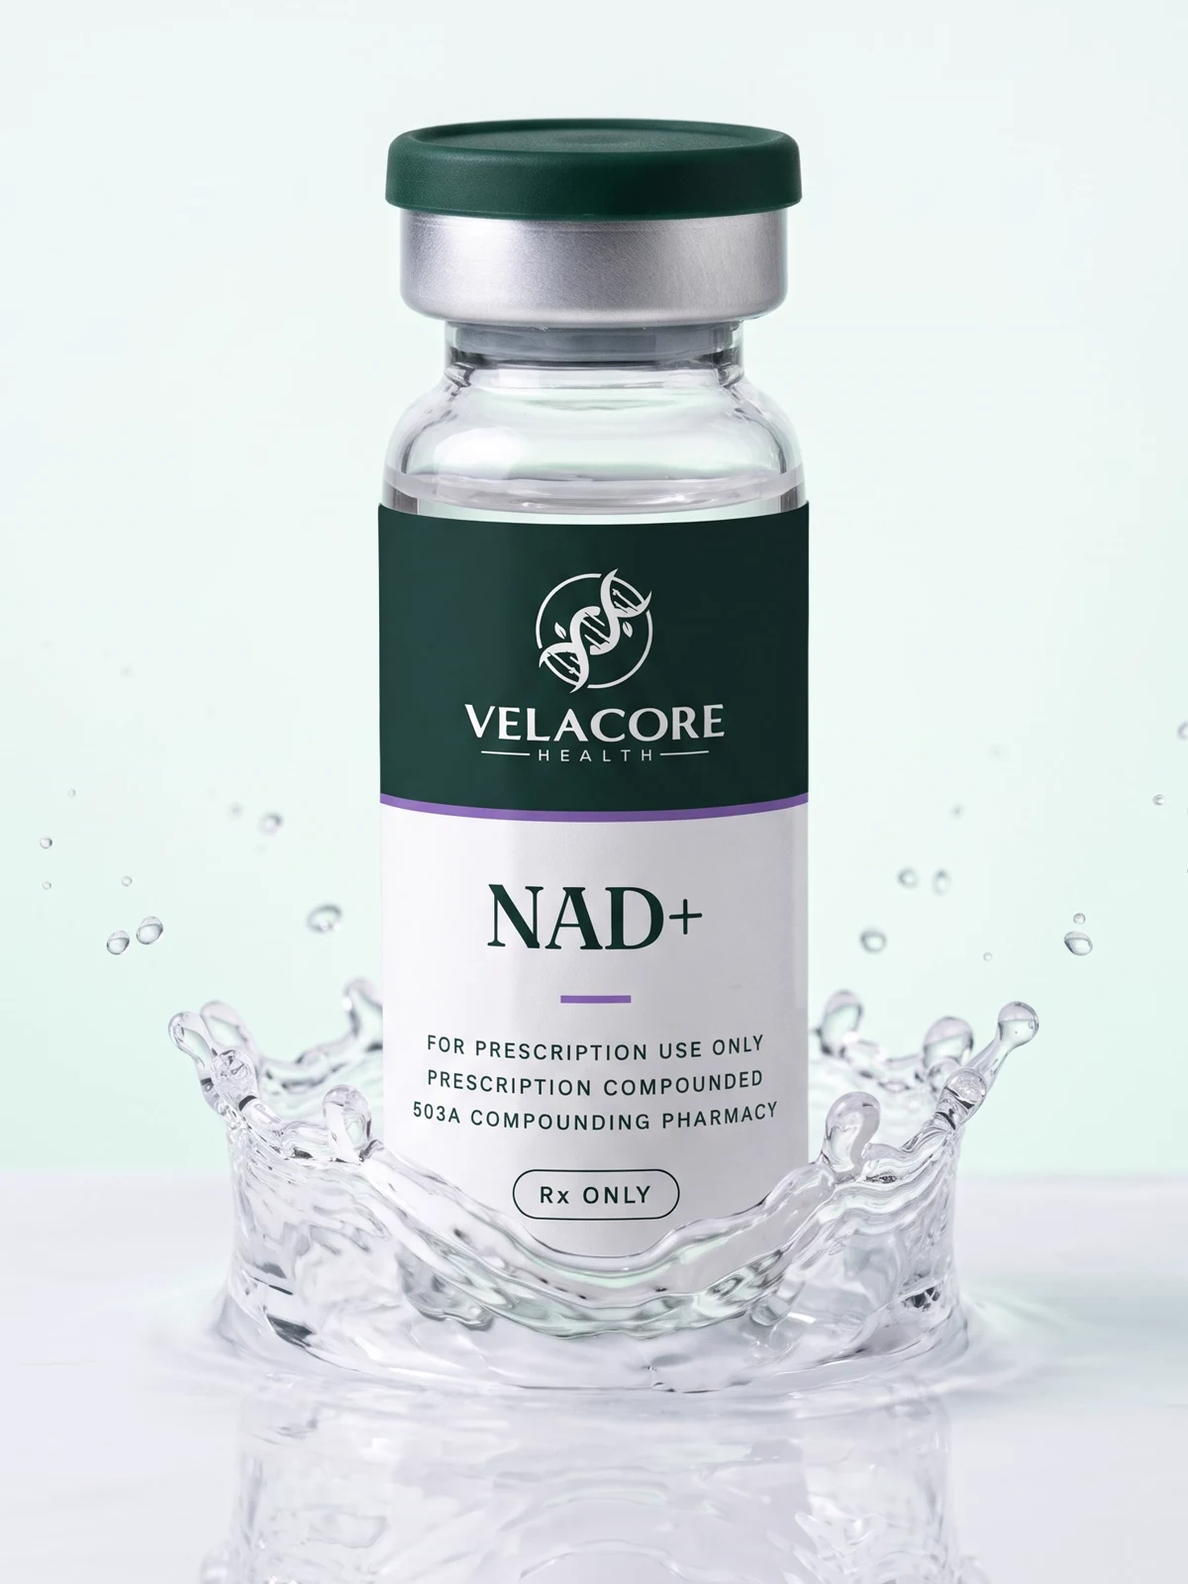
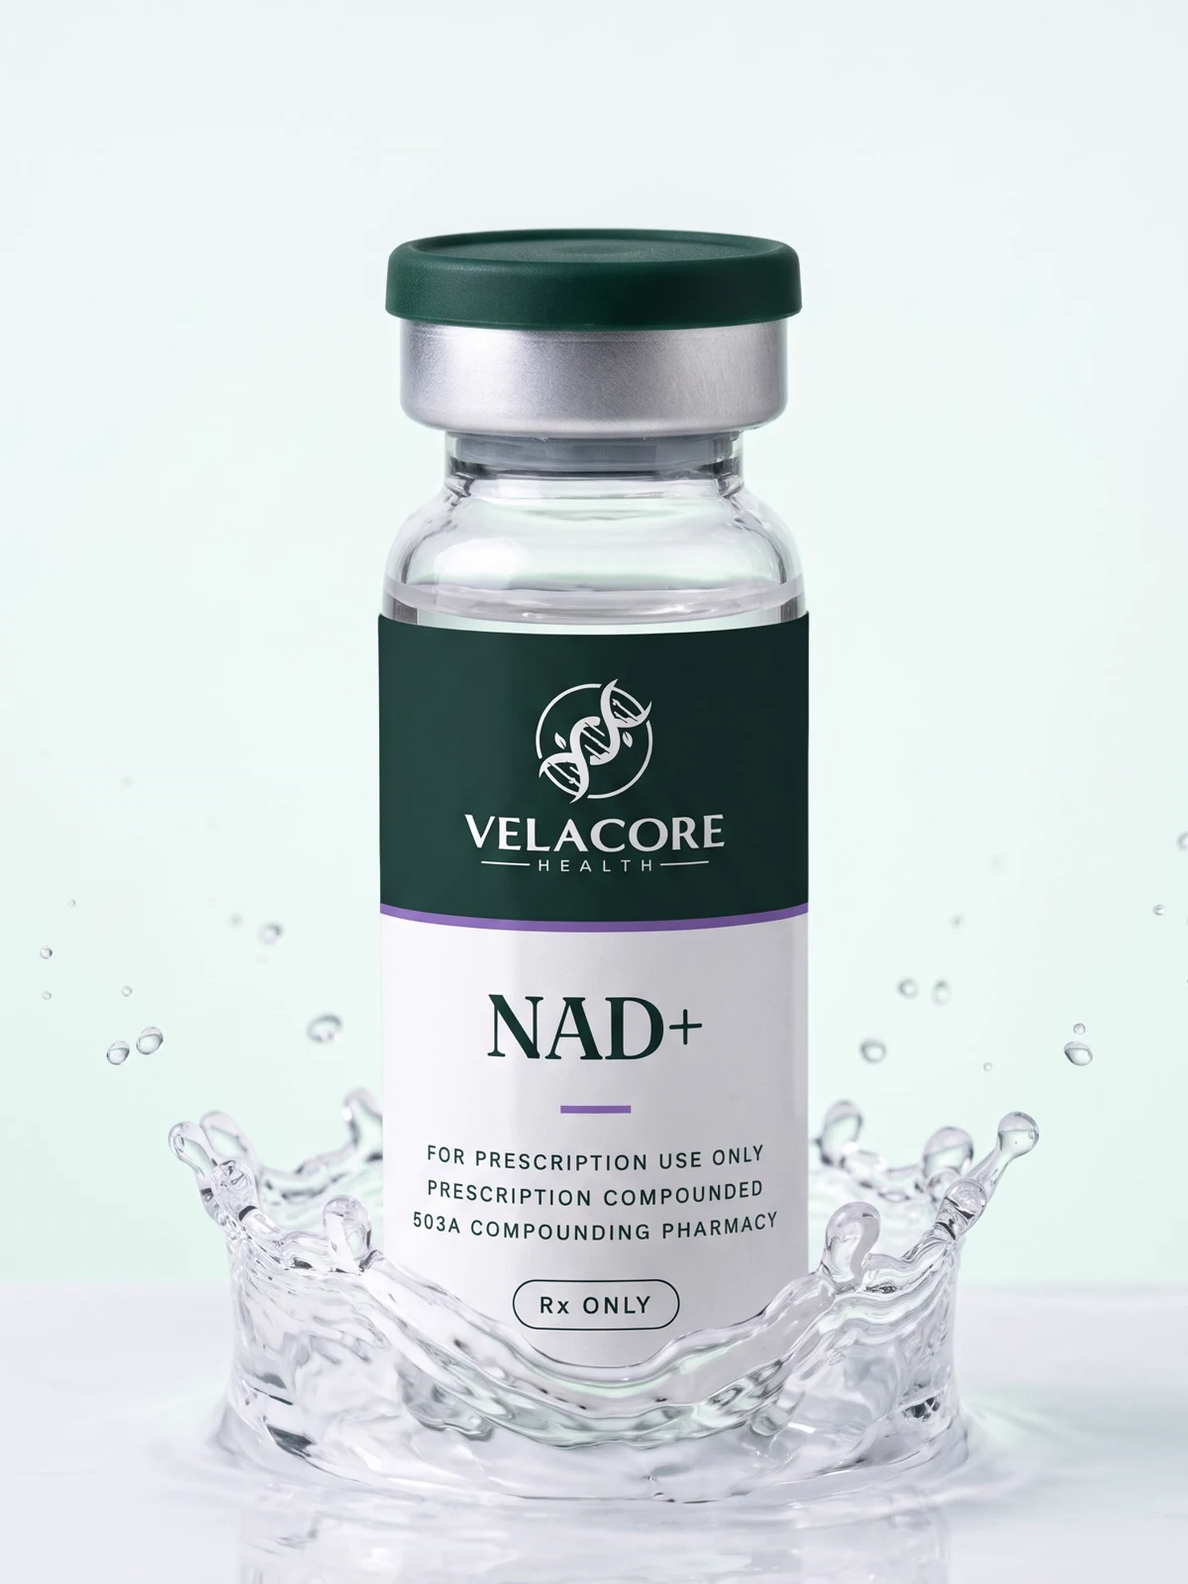
Microdosing splash vial on the site and home card; NAD+ re-cropped; product cards 4 by 5, full-bleed

diff --git a/public/programs/microdosing.html b/public/programs/microdosing.html
@@ -36,7 +36,7 @@
         <img class="brand-mark" src="../logo-mark.png" alt="Velacore Health" /><span class="brand-name">Velacore <span class="brand-accent">Health</span></span>
       </a>
       <nav class="nav-links" id="navLinks" aria-label="Primary">
-        <div class="nav-item has-mega"><a href="../index.html#treatments" aria-haspopup="true" aria-expanded="false">Treatments</a><div class="mega" role="menu"><div class="mega-col"><h4>Weight</h4><a class="mega-item" href="../programs/tirzepatide.html"><img src="../images/products/tirzepatide.webp" alt="" width="54" height="54" loading="lazy" /><span><b>Tirzepatide</b><small>Dual GIP / GLP-1 injection</small></span></a><a class="mega-item" href="../programs/semaglutide.html"><img src="../images/products/semaglutide.webp" alt="" width="54" height="54" loading="lazy" /><span><b>Semaglutide</b><small>GLP-1 injection</small></span></a><a class="mega-item" href="../programs/microdosing.html"><img class="mega-tile" src="../logo-mark.png" alt="" width="119" height="128" loading="lazy" /><span><b>Microdosing GLP‑1</b><small>Low dose, oral or injection</small></span></a></div><div class="mega-col"><h4>Vitality</h4><a class="mega-item" href="../programs/nad.html"><img src="../images/products/nad.webp" alt="" width="54" height="54" loading="lazy" /><span><b>NAD+</b><small>Injection, nasal or oral</small></span></a></div><div class="mega-col"><h4>Hormone support</h4><a class="mega-item" href="../programs/sermorelin.html"><img src="../images/products/sermorelin.webp" alt="" width="54" height="54" loading="lazy" /><span><b>Sermorelin</b><small>GHRH analog injection</small></span></a></div><div class="mega-col mega-cta"><h4>Not sure?</h4><p>Start the online visit and a licensed clinician will help determine what is appropriate.</p><a class="btn btn-primary btn-sm" href="../index.html#intake">Start online visit</a></div></div></div>
+        <div class="nav-item has-mega"><a href="../index.html#treatments" aria-haspopup="true" aria-expanded="false">Treatments</a><div class="mega" role="menu"><div class="mega-col"><h4>Weight</h4><a class="mega-item" href="../programs/tirzepatide.html"><img src="../images/products/tirzepatide.webp" alt="" width="54" height="54" loading="lazy" /><span><b>Tirzepatide</b><small>Dual GIP / GLP-1 injection</small></span></a><a class="mega-item" href="../programs/semaglutide.html"><img src="../images/products/semaglutide.webp" alt="" width="54" height="54" loading="lazy" /><span><b>Semaglutide</b><small>GLP-1 injection</small></span></a><a class="mega-item" href="../programs/microdosing.html"><img src="../images/products/microdosing.webp" alt="" width="54" height="54" loading="lazy" /><span><b>Microdosing GLP‑1</b><small>Low dose, oral or injection</small></span></a></div><div class="mega-col"><h4>Vitality</h4><a class="mega-item" href="../programs/nad.html"><img src="../images/products/nad.webp" alt="" width="54" height="54" loading="lazy" /><span><b>NAD+</b><small>Injection, nasal or oral</small></span></a></div><div class="mega-col"><h4>Hormone support</h4><a class="mega-item" href="../programs/sermorelin.html"><img src="../images/products/sermorelin.webp" alt="" width="54" height="54" loading="lazy" /><span><b>Sermorelin</b><small>GHRH analog injection</small></span></a></div><div class="mega-col mega-cta"><h4>Not sure?</h4><p>Start the online visit and a licensed clinician will help determine what is appropriate.</p><a class="btn btn-primary btn-sm" href="../index.html#intake">Start online visit</a></div></div></div>
         <a href="../index.html#how">How it works</a>
         <a href="../learn.html">Learn</a>
         <a href="../index.html#provider">Clinicians</a>
@@ -60,7 +60,7 @@
             <ul class="facts"><li><span class="check">✓</span> Low-dose GLP-1 plus vitamins or amino acids</li><li><span class="check">✓</span> Seven formulations, oral or injection</li><li><span class="check">✓</span> Clinician consults, unlimited, at no extra cost</li><li><span class="check">✓</span> Async review on a 12-week cycle, video any time</li><li><span class="check">✓</span> Supplies and written instructions included</li><li><span class="check">✓</span> Patient support 24 hours a day</li></ul>
           </div>
           <div class="prog-side">
-            <div class="tcard prog-media"><div class="tcard-media"><img class="brand-tile" src="../logo-mark.png" alt="" width="119" height="128" /></div></div>
+            <div class="tcard prog-media"><div class="tcard-media"><img class="tcard-photo" src="../images/products/microdosing.webp" width="1194" height="1600" alt="Velacore Health Microdosing GLP-1" fetchpriority="high" /></div></div>
             <div class="price-box" id="priceBox">
               <div class="price-top">
                 <span class="price-big" id="planPrice">$179<small id="planUnit">/mo</small></span>

diff --git a/public/programs/nad.html b/public/programs/nad.html
@@ -36,7 +36,7 @@
         <img class="brand-mark" src="../logo-mark.png" alt="Velacore Health" /><span class="brand-name">Velacore <span class="brand-accent">Health</span></span>
       </a>
       <nav class="nav-links" id="navLinks" aria-label="Primary">
-        <div class="nav-item has-mega"><a href="../index.html#treatments" aria-haspopup="true" aria-expanded="false">Treatments</a><div class="mega" role="menu"><div class="mega-col"><h4>Weight</h4><a class="mega-item" href="../programs/tirzepatide.html"><img src="../images/products/tirzepatide.webp" alt="" width="54" height="54" loading="lazy" /><span><b>Tirzepatide</b><small>Dual GIP / GLP-1 injection</small></span></a><a class="mega-item" href="../programs/semaglutide.html"><img src="../images/products/semaglutide.webp" alt="" width="54" height="54" loading="lazy" /><span><b>Semaglutide</b><small>GLP-1 injection</small></span></a><a class="mega-item" href="../programs/microdosing.html"><img class="mega-tile" src="../logo-mark.png" alt="" width="119" height="128" loading="lazy" /><span><b>Microdosing GLP‑1</b><small>Low dose, oral or injection</small></span></a></div><div class="mega-col"><h4>Vitality</h4><a class="mega-item" href="../programs/nad.html"><img src="../images/products/nad.webp" alt="" width="54" height="54" loading="lazy" /><span><b>NAD+</b><small>Injection, nasal or oral</small></span></a></div><div class="mega-col"><h4>Hormone support</h4><a class="mega-item" href="../programs/sermorelin.html"><img src="../images/products/sermorelin.webp" alt="" width="54" height="54" loading="lazy" /><span><b>Sermorelin</b><small>GHRH analog injection</small></span></a></div><div class="mega-col mega-cta"><h4>Not sure?</h4><p>Start the online visit and a licensed clinician will help determine what is appropriate.</p><a class="btn btn-primary btn-sm" href="../index.html#intake">Start online visit</a></div></div></div>
+        <div class="nav-item has-mega"><a href="../index.html#treatments" aria-haspopup="true" aria-expanded="false">Treatments</a><div class="mega" role="menu"><div class="mega-col"><h4>Weight</h4><a class="mega-item" href="../programs/tirzepatide.html"><img src="../images/products/tirzepatide.webp" alt="" width="54" height="54" loading="lazy" /><span><b>Tirzepatide</b><small>Dual GIP / GLP-1 injection</small></span></a><a class="mega-item" href="../programs/semaglutide.html"><img src="../images/products/semaglutide.webp" alt="" width="54" height="54" loading="lazy" /><span><b>Semaglutide</b><small>GLP-1 injection</small></span></a><a class="mega-item" href="../programs/microdosing.html"><img src="../images/products/microdosing.webp" alt="" width="54" height="54" loading="lazy" /><span><b>Microdosing GLP‑1</b><small>Low dose, oral or injection</small></span></a></div><div class="mega-col"><h4>Vitality</h4><a class="mega-item" href="../programs/nad.html"><img src="../images/products/nad.webp" alt="" width="54" height="54" loading="lazy" /><span><b>NAD+</b><small>Injection, nasal or oral</small></span></a></div><div class="mega-col"><h4>Hormone support</h4><a class="mega-item" href="../programs/sermorelin.html"><img src="../images/products/sermorelin.webp" alt="" width="54" height="54" loading="lazy" /><span><b>Sermorelin</b><small>GHRH analog injection</small></span></a></div><div class="mega-col mega-cta"><h4>Not sure?</h4><p>Start the online visit and a licensed clinician will help determine what is appropriate.</p><a class="btn btn-primary btn-sm" href="../index.html#intake">Start online visit</a></div></div></div>
         <a href="../index.html#how">How it works</a>
         <a href="../learn.html">Learn</a>
         <a href="../index.html#provider">Clinicians</a>

diff --git a/public/programs/semaglutide.html b/public/programs/semaglutide.html
@@ -36,7 +36,7 @@
         <img class="brand-mark" src="../logo-mark.png" alt="Velacore Health" /><span class="brand-name">Velacore <span class="brand-accent">Health</span></span>
       </a>
       <nav class="nav-links" id="navLinks" aria-label="Primary">
-        <div class="nav-item has-mega"><a href="../index.html#treatments" aria-haspopup="true" aria-expanded="false">Treatments</a><div class="mega" role="menu"><div class="mega-col"><h4>Weight</h4><a class="mega-item" href="../programs/tirzepatide.html"><img src="../images/products/tirzepatide.webp" alt="" width="54" height="54" loading="lazy" /><span><b>Tirzepatide</b><small>Dual GIP / GLP-1 injection</small></span></a><a class="mega-item" href="../programs/semaglutide.html"><img src="../images/products/semaglutide.webp" alt="" width="54" height="54" loading="lazy" /><span><b>Semaglutide</b><small>GLP-1 injection</small></span></a><a class="mega-item" href="../programs/microdosing.html"><img class="mega-tile" src="../logo-mark.png" alt="" width="119" height="128" loading="lazy" /><span><b>Microdosing GLP‑1</b><small>Low dose, oral or injection</small></span></a></div><div class="mega-col"><h4>Vitality</h4><a class="mega-item" href="../programs/nad.html"><img src="../images/products/nad.webp" alt="" width="54" height="54" loading="lazy" /><span><b>NAD+</b><small>Injection, nasal or oral</small></span></a></div><div class="mega-col"><h4>Hormone support</h4><a class="mega-item" href="../programs/sermorelin.html"><img src="../images/products/sermorelin.webp" alt="" width="54" height="54" loading="lazy" /><span><b>Sermorelin</b><small>GHRH analog injection</small></span></a></div><div class="mega-col mega-cta"><h4>Not sure?</h4><p>Start the online visit and a licensed clinician will help determine what is appropriate.</p><a class="btn btn-primary btn-sm" href="../index.html#intake">Start online visit</a></div></div></div>
+        <div class="nav-item has-mega"><a href="../index.html#treatments" aria-haspopup="true" aria-expanded="false">Treatments</a><div class="mega" role="menu"><div class="mega-col"><h4>Weight</h4><a class="mega-item" href="../programs/tirzepatide.html"><img src="../images/products/tirzepatide.webp" alt="" width="54" height="54" loading="lazy" /><span><b>Tirzepatide</b><small>Dual GIP / GLP-1 injection</small></span></a><a class="mega-item" href="../programs/semaglutide.html"><img src="../images/products/semaglutide.webp" alt="" width="54" height="54" loading="lazy" /><span><b>Semaglutide</b><small>GLP-1 injection</small></span></a><a class="mega-item" href="../programs/microdosing.html"><img src="../images/products/microdosing.webp" alt="" width="54" height="54" loading="lazy" /><span><b>Microdosing GLP‑1</b><small>Low dose, oral or injection</small></span></a></div><div class="mega-col"><h4>Vitality</h4><a class="mega-item" href="../programs/nad.html"><img src="../images/products/nad.webp" alt="" width="54" height="54" loading="lazy" /><span><b>NAD+</b><small>Injection, nasal or oral</small></span></a></div><div class="mega-col"><h4>Hormone support</h4><a class="mega-item" href="../programs/sermorelin.html"><img src="../images/products/sermorelin.webp" alt="" width="54" height="54" loading="lazy" /><span><b>Sermorelin</b><small>GHRH analog injection</small></span></a></div><div class="mega-col mega-cta"><h4>Not sure?</h4><p>Start the online visit and a licensed clinician will help determine what is appropriate.</p><a class="btn btn-primary btn-sm" href="../index.html#intake">Start online visit</a></div></div></div>
         <a href="../index.html#how">How it works</a>
         <a href="../learn.html">Learn</a>
         <a href="../index.html#provider">Clinicians</a>

diff --git a/public/programs/sermorelin.html b/public/programs/sermorelin.html
@@ -36,7 +36,7 @@
         <img class="brand-mark" src="../logo-mark.png" alt="Velacore Health" /><span class="brand-name">Velacore <span class="brand-accent">Health</span></span>
       </a>
       <nav class="nav-links" id="navLinks" aria-label="Primary">
-        <div class="nav-item has-mega"><a href="../index.html#treatments" aria-haspopup="true" aria-expanded="false">Treatments</a><div class="mega" role="menu"><div class="mega-col"><h4>Weight</h4><a class="mega-item" href="../programs/tirzepatide.html"><img src="../images/products/tirzepatide.webp" alt="" width="54" height="54" loading="lazy" /><span><b>Tirzepatide</b><small>Dual GIP / GLP-1 injection</small></span></a><a class="mega-item" href="../programs/semaglutide.html"><img src="../images/products/semaglutide.webp" alt="" width="54" height="54" loading="lazy" /><span><b>Semaglutide</b><small>GLP-1 injection</small></span></a><a class="mega-item" href="../programs/microdosing.html"><img class="mega-tile" src="../logo-mark.png" alt="" width="119" height="128" loading="lazy" /><span><b>Microdosing GLP‑1</b><small>Low dose, oral or injection</small></span></a></div><div class="mega-col"><h4>Vitality</h4><a class="mega-item" href="../programs/nad.html"><img src="../images/products/nad.webp" alt="" width="54" height="54" loading="lazy" /><span><b>NAD+</b><small>Injection, nasal or oral</small></span></a></div><div class="mega-col"><h4>Hormone support</h4><a class="mega-item" href="../programs/sermorelin.html"><img src="../images/products/sermorelin.webp" alt="" width="54" height="54" loading="lazy" /><span><b>Sermorelin</b><small>GHRH analog injection</small></span></a></div><div class="mega-col mega-cta"><h4>Not sure?</h4><p>Start the online visit and a licensed clinician will help determine what is appropriate.</p><a class="btn btn-primary btn-sm" href="../index.html#intake">Start online visit</a></div></div></div>
+        <div class="nav-item has-mega"><a href="../index.html#treatments" aria-haspopup="true" aria-expanded="false">Treatments</a><div class="mega" role="menu"><div class="mega-col"><h4>Weight</h4><a class="mega-item" href="../programs/tirzepatide.html"><img src="../images/products/tirzepatide.webp" alt="" width="54" height="54" loading="lazy" /><span><b>Tirzepatide</b><small>Dual GIP / GLP-1 injection</small></span></a><a class="mega-item" href="../programs/semaglutide.html"><img src="../images/products/semaglutide.webp" alt="" width="54" height="54" loading="lazy" /><span><b>Semaglutide</b><small>GLP-1 injection</small></span></a><a class="mega-item" href="../programs/microdosing.html"><img src="../images/products/microdosing.webp" alt="" width="54" height="54" loading="lazy" /><span><b>Microdosing GLP‑1</b><small>Low dose, oral or injection</small></span></a></div><div class="mega-col"><h4>Vitality</h4><a class="mega-item" href="../programs/nad.html"><img src="../images/products/nad.webp" alt="" width="54" height="54" loading="lazy" /><span><b>NAD+</b><small>Injection, nasal or oral</small></span></a></div><div class="mega-col"><h4>Hormone support</h4><a class="mega-item" href="../programs/sermorelin.html"><img src="../images/products/sermorelin.webp" alt="" width="54" height="54" loading="lazy" /><span><b>Sermorelin</b><small>GHRH analog injection</small></span></a></div><div class="mega-col mega-cta"><h4>Not sure?</h4><p>Start the online visit and a licensed clinician will help determine what is appropriate.</p><a class="btn btn-primary btn-sm" href="../index.html#intake">Start online visit</a></div></div></div>
         <a href="../index.html#how">How it works</a>
         <a href="../learn.html">Learn</a>
         <a href="../index.html#provider">Clinicians</a>

diff --git a/public/programs/tirzepatide.html b/public/programs/tirzepatide.html
@@ -36,7 +36,7 @@
         <img class="brand-mark" src="../logo-mark.png" alt="Velacore Health" /><span class="brand-name">Velacore <span class="brand-accent">Health</span></span>
       </a>
       <nav class="nav-links" id="navLinks" aria-label="Primary">
-        <div class="nav-item has-mega"><a href="../index.html#treatments" aria-haspopup="true" aria-expanded="false">Treatments</a><div class="mega" role="menu"><div class="mega-col"><h4>Weight</h4><a class="mega-item" href="../programs/tirzepatide.html"><img src="../images/products/tirzepatide.webp" alt="" width="54" height="54" loading="lazy" /><span><b>Tirzepatide</b><small>Dual GIP / GLP-1 injection</small></span></a><a class="mega-item" href="../programs/semaglutide.html"><img src="../images/products/semaglutide.webp" alt="" width="54" height="54" loading="lazy" /><span><b>Semaglutide</b><small>GLP-1 injection</small></span></a><a class="mega-item" href="../programs/microdosing.html"><img class="mega-tile" src="../logo-mark.png" alt="" width="119" height="128" loading="lazy" /><span><b>Microdosing GLP‑1</b><small>Low dose, oral or injection</small></span></a></div><div class="mega-col"><h4>Vitality</h4><a class="mega-item" href="../programs/nad.html"><img src="../images/products/nad.webp" alt="" width="54" height="54" loading="lazy" /><span><b>NAD+</b><small>Injection, nasal or oral</small></span></a></div><div class="mega-col"><h4>Hormone support</h4><a class="mega-item" href="../programs/sermorelin.html"><img src="../images/products/sermorelin.webp" alt="" width="54" height="54" loading="lazy" /><span><b>Sermorelin</b><small>GHRH analog injection</small></span></a></div><div class="mega-col mega-cta"><h4>Not sure?</h4><p>Start the online visit and a licensed clinician will help determine what is appropriate.</p><a class="btn btn-primary btn-sm" href="../index.html#intake">Start online visit</a></div></div></div>
+        <div class="nav-item has-mega"><a href="../index.html#treatments" aria-haspopup="true" aria-expanded="false">Treatments</a><div class="mega" role="menu"><div class="mega-col"><h4>Weight</h4><a class="mega-item" href="../programs/tirzepatide.html"><img src="../images/products/tirzepatide.webp" alt="" width="54" height="54" loading="lazy" /><span><b>Tirzepatide</b><small>Dual GIP / GLP-1 injection</small></span></a><a class="mega-item" href="../programs/semaglutide.html"><img src="../images/products/semaglutide.webp" alt="" width="54" height="54" loading="lazy" /><span><b>Semaglutide</b><small>GLP-1 injection</small></span></a><a class="mega-item" href="../programs/microdosing.html"><img src="../images/products/microdosing.webp" alt="" width="54" height="54" loading="lazy" /><span><b>Microdosing GLP‑1</b><small>Low dose, oral or injection</small></span></a></div><div class="mega-col"><h4>Vitality</h4><a class="mega-item" href="../programs/nad.html"><img src="../images/products/nad.webp" alt="" width="54" height="54" loading="lazy" /><span><b>NAD+</b><small>Injection, nasal or oral</small></span></a></div><div class="mega-col"><h4>Hormone support</h4><a class="mega-item" href="../programs/sermorelin.html"><img src="../images/products/sermorelin.webp" alt="" width="54" height="54" loading="lazy" /><span><b>Sermorelin</b><small>GHRH analog injection</small></span></a></div><div class="mega-col mega-cta"><h4>Not sure?</h4><p>Start the online visit and a licensed clinician will help determine what is appropriate.</p><a class="btn btn-primary btn-sm" href="../index.html#intake">Start online visit</a></div></div></div>
         <a href="../index.html#how">How it works</a>
         <a href="../learn.html">Learn</a>
         <a href="../index.html#provider">Clinicians</a>

diff --git a/public/styles.css b/public/styles.css
@@ -161,9 +161,10 @@ ul,ol{margin:0;padding:0;list-style:none}
 .tcard[data-cat="weight"]:nth-of-type(2)::before{background:var(--cap-violet)}
 .tcard[data-cat="weight"]:nth-of-type(3)::before{background:var(--cap-jade)}
 .tcard[data-cat="all"]::before{background:var(--line-strong)}
-.tcard-media{position:relative;aspect-ratio:4/4.2;background:var(--mint);display:grid;place-items:center;overflow:hidden}
+.tcard-media{position:relative;aspect-ratio:4/5;background:var(--mint);display:grid;place-items:center;overflow:hidden}
 .tcard-media .node-glyph{width:70px;height:70px}
-.tcard-photo{width:100%;height:100%;object-fit:cover;display:block}
+/* Vial shots are full scenes with their own mint ground: fill the frame, keep cap and label in view. */
+.tcard-photo{position:absolute;inset:0;width:100%;height:100%;object-fit:cover;object-position:50% 38%;display:block}
 .tcard-cat{position:absolute;z-index:2;top:18px;left:14px;font-size:.78rem;font-weight:600;color:var(--ink);background:#fff;border:1px solid var(--line);padding:4px 10px;border-radius:999px}
 .tcard-body{padding:22px 22px 24px;display:flex;flex-direction:column;flex:1}
 .tcard-body h3{font-size:1.5rem;margin-bottom:6px}
@@ -401,8 +402,8 @@ body.prog-microdosing{--cap:var(--cap-jade)}
   .pcar--3d.on .pcar-card[data-d="-1"]{transform:translateX(-62%) translateZ(-140px) rotateY(32deg) scale(.88)}
   .pcar--3d.on .pcar-card[data-d="1"]{transform:translateX(62%) translateZ(-140px) rotateY(-32deg) scale(.88)}
   .pcar.on .pcar-card:not([data-d="0"]) a,.pcar.on .pcar-card:not([data-d="0"]) button{pointer-events:none}
-  .pcar.on .tcard-media{aspect-ratio:4/3}
-  .pcar.on .tcard-photo{position:absolute;inset:0;height:100%;object-fit:contain;padding:10px 0}
+  .pcar.on .tcard-media{aspect-ratio:4/5}
+  .pcar.on .tcard-photo{object-fit:cover;padding:0}
   .pcar.on .tcard-body{padding:18px 18px 20px}
   .pcar.on .tcard-mech{font-size:.92rem}
   .pcar.on .pcar-ctl{display:flex;align-items:center;justify-content:center;gap:6px;margin:14px 0 0}

diff --git a/public/index.html b/public/index.html
@@ -155,8 +155,7 @@
 
           <!-- Microdosing GLP-1 -->
           <article class="tcard pcar-card" data-cat="weight" aria-roledescription="slide" aria-label="Microdosing GLP-1, 3 of 6">
-            <div class="tcard-media"><span class="tcard-cat">Weight, entry tier</span>
-              <img class="brand-tile" src="logo-mark.png" alt="" width="119" height="128" loading="lazy" />
+            <div class="tcard-media"><span class="tcard-cat">Weight, entry tier</span><img class="tcard-photo" src="images/products/microdosing.webp" width="1194" height="1600" alt="Velacore Health Microdosing GLP-1 vial" loading="lazy" />
             </div>
             <div class="tcard-body">
               <h3>Microdosing GLP-1</h3>
